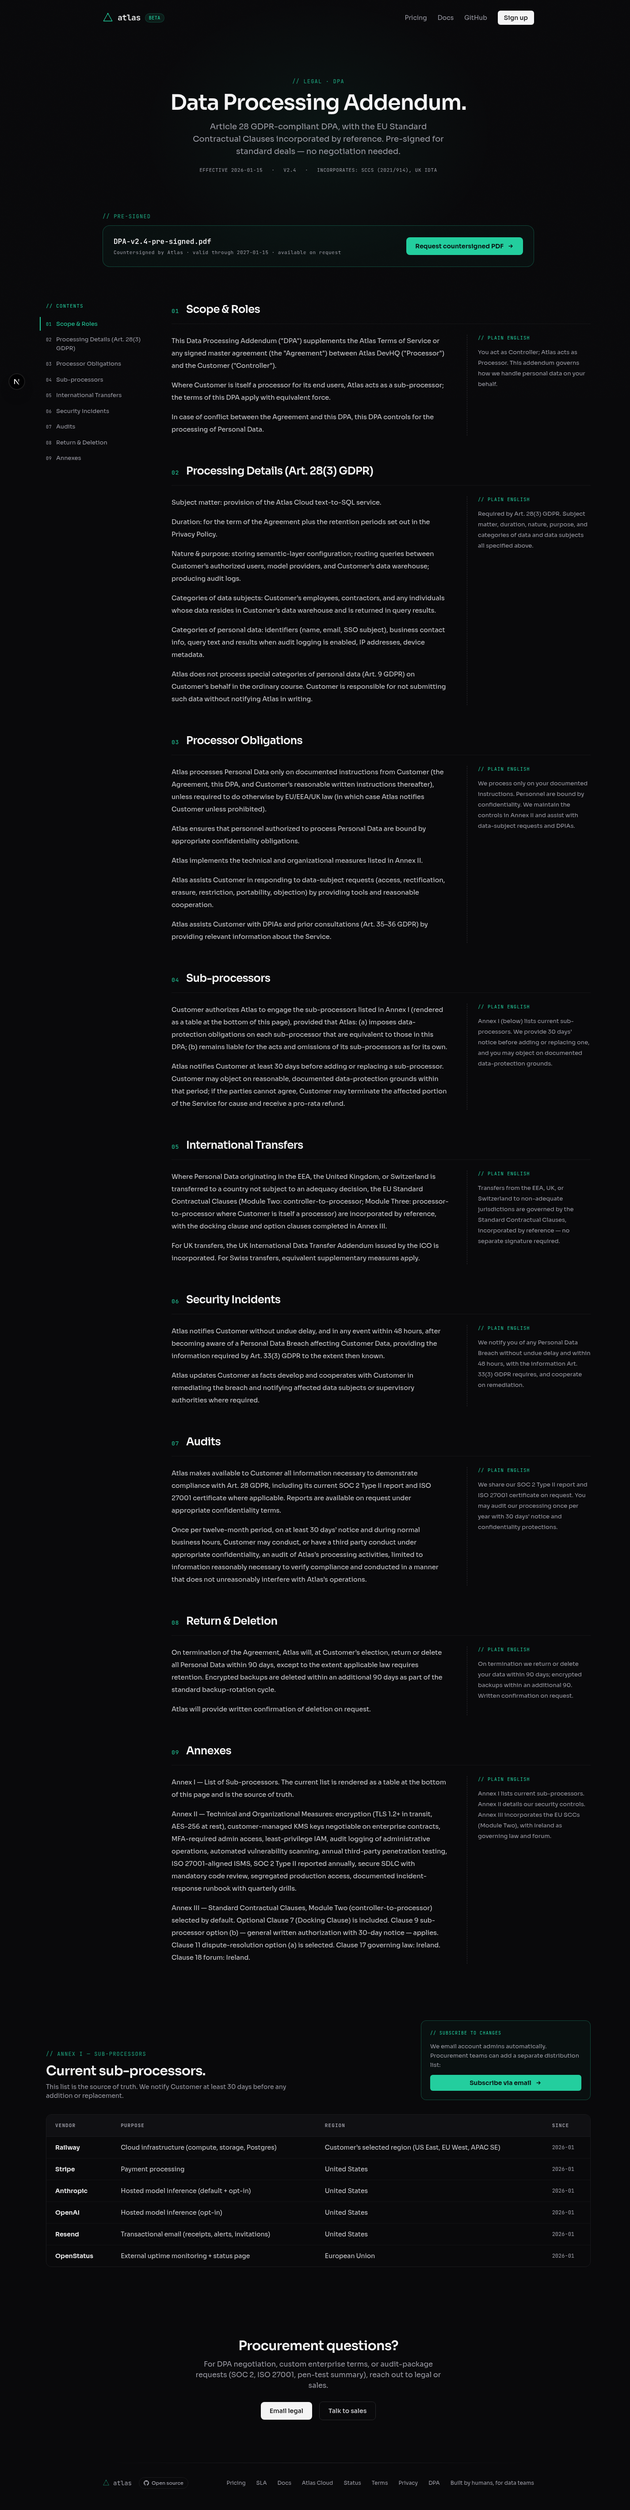
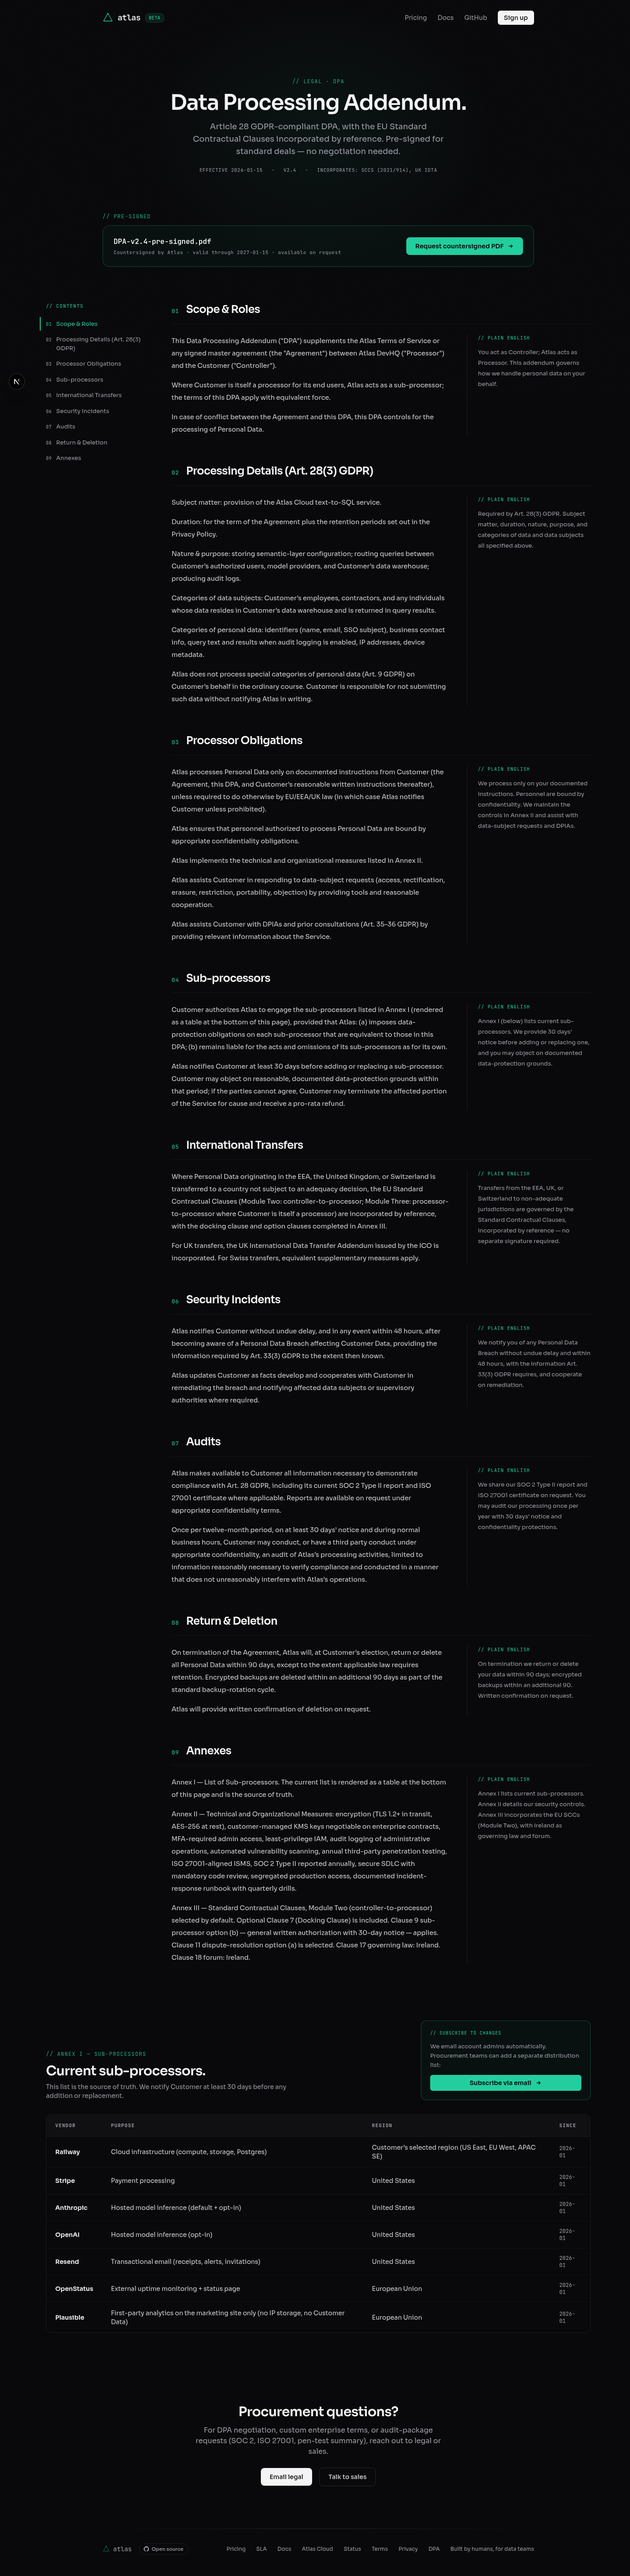
fix(www): #1915 review fold — Plausible in DPA + Promise interface rename
Two findings from the 4-agent review on PR #1921:

- code-reviewer (MED-2): /privacy section 10 names Plausible as the
  marketing-site analytics vendor, but DPA Annex I omitted it. The DPA
  itself describes Annex I as "the source of truth," so the gap reads
  as a real discrepancy to procurement reviewers comparing the two
  pages side-by-side. Added Plausible to the sub-processors table with
  region EU, purpose noted as "marketing site only (no IP storage, no
  Customer Data)" so it's clear this isn't an Atlas Cloud processor.

- code-reviewer (MED-1): the privacy page had `interface Promise`
  shadowing the global Promise constructor. Renamed to PromiseCard.
  Pre-existing from #1913 — folded here since this PR was already
  touching the file via the LegalSection extraction refactor.

axe-core re-verified on /sla, /terms, /privacy post-extraction: 0
violations on all three. /dpa stays at 0 with the new sub-processor
row added.

diff --git a/apps/www/src/app/dpa/page.tsx b/apps/www/src/app/dpa/page.tsx
@@ -64,6 +64,13 @@ const SUBPROCESSORS: SubProcessor[] = [
     region: "European Union",
     since: "2026-01",
   },
+  {
+    name: "Plausible",
+    purpose:
+      "First-party analytics on the marketing site only (no IP storage, no Customer Data)",
+    region: "European Union",
+    since: "2026-01",
+  },
 ];
 
 const SECTIONS: LegalSectionData[] = [

diff --git a/apps/www/src/app/privacy/page.tsx b/apps/www/src/app/privacy/page.tsx
@@ -20,13 +20,13 @@ export const metadata: Metadata = {
   },
 };
 
-interface Promise {
+interface PromiseCard {
   mono: string;
   label: string;
   sub: string;
 }
 
-const PROMISES: Promise[] = [
+const PROMISES: PromiseCard[] = [
   {
     mono: "no_train",
     label: "We don’t train on your data",
